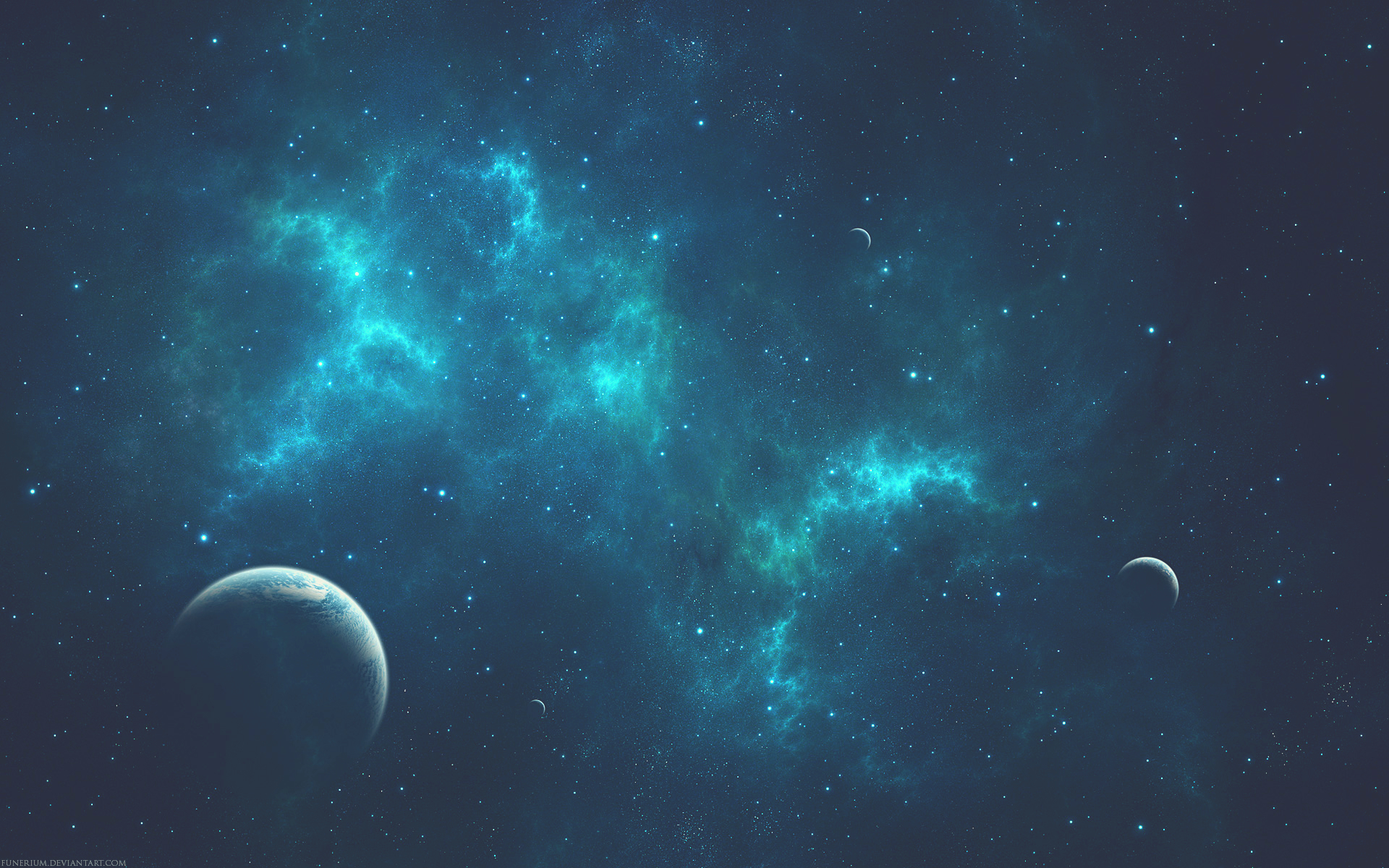
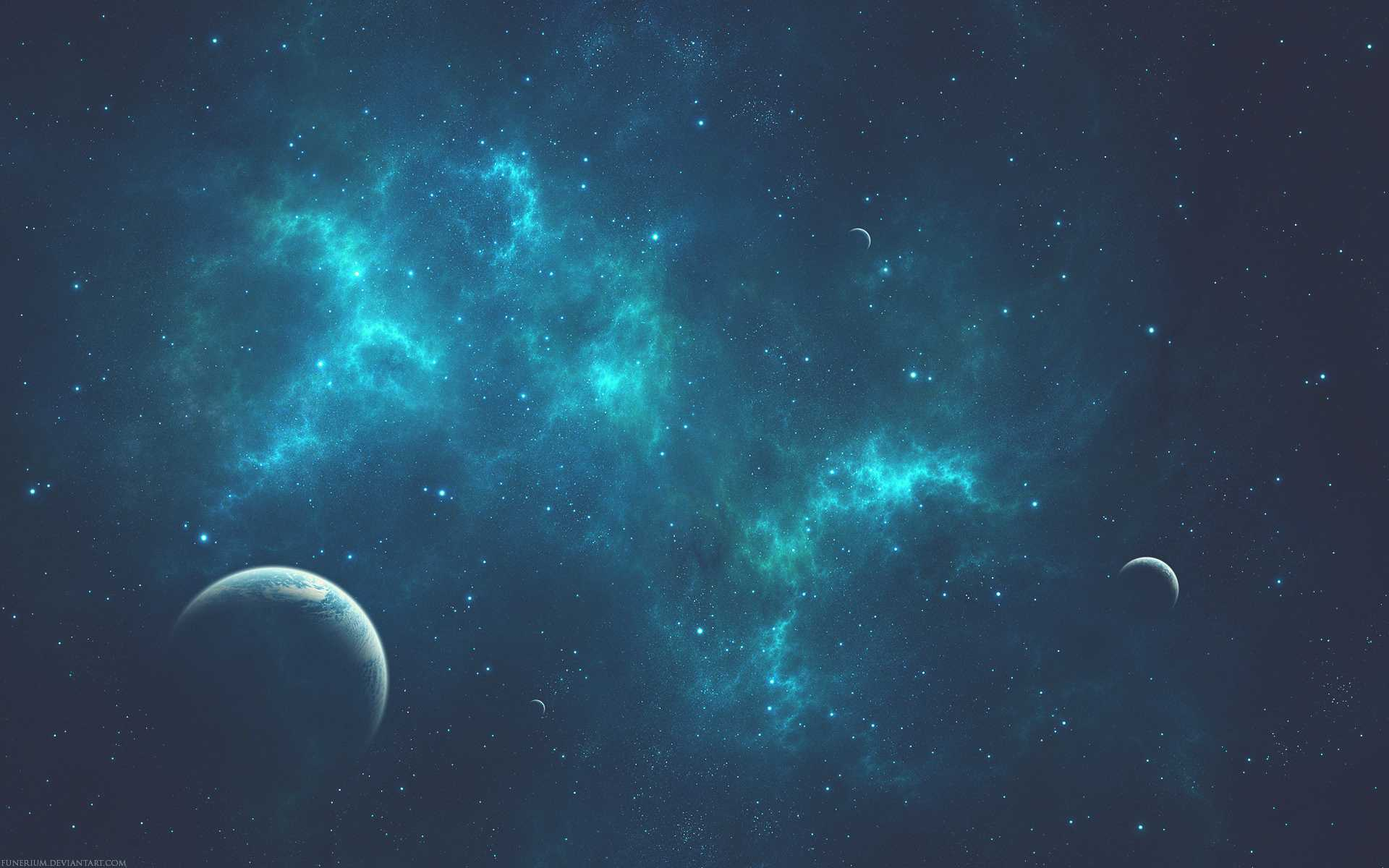
Optimized bg image and removed useless console.log statements

diff --git a/src/actions/rooms.js b/src/actions/rooms.js
@@ -100,7 +100,6 @@ export const startJoinRoom = (data = {}, showJoinError) => {
               database.ref('users').once('value').then((usersnapshot) => {
                 usersnapshot.forEach((childSnapshot) => {
                   if (childSnapshot.val().uid === data.id) {
-                    console.log(snapshot);
                     database.ref(`users/${childSnapshot.key}/rooms`).push(rooms[i].id);
                   }
                 })

diff --git a/src/components/Messages.js b/src/components/Messages.js
@@ -7,7 +7,6 @@ class Messages extends React.Component {
 
 
   scrollToBottom = (options) => {
-    console.log(options);
     this.messagesEnd.scrollIntoView(options);
   }
   
